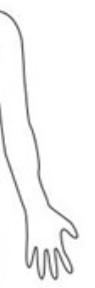
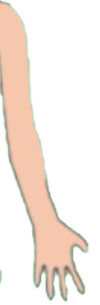
Colored pictures

diff --git a/src/pages/HomePage.js b/src/pages/HomePage.js
@@ -22,7 +22,7 @@ const HomePage = () => {
 
       {/* Main Section */}
       <section className="main-content">
-        <p className="root-cause">Find the root cause of your health concerns and get personalized insights.</p>
+        <p className="root-cause">Find the root cause of your health concerns and get personalized insights</p>
         <Link to="/body" className="cta-button">Start Your Journey</Link>
       </section>
 

diff --git a/src/pages/BodyPage.js b/src/pages/BodyPage.js
@@ -121,7 +121,7 @@ const BodyPage = () => {
 
             <div className="body-image-container">
                 <img
-                    src="body.jpg"
+                    src="bodyColored.png"
                     alt="Human Body"
                     className={`body-image ${isHeadZooming ? "zoom-in-head" : ""}
                 ${isChestZooming ? "zoom-in-chest" : ""}
